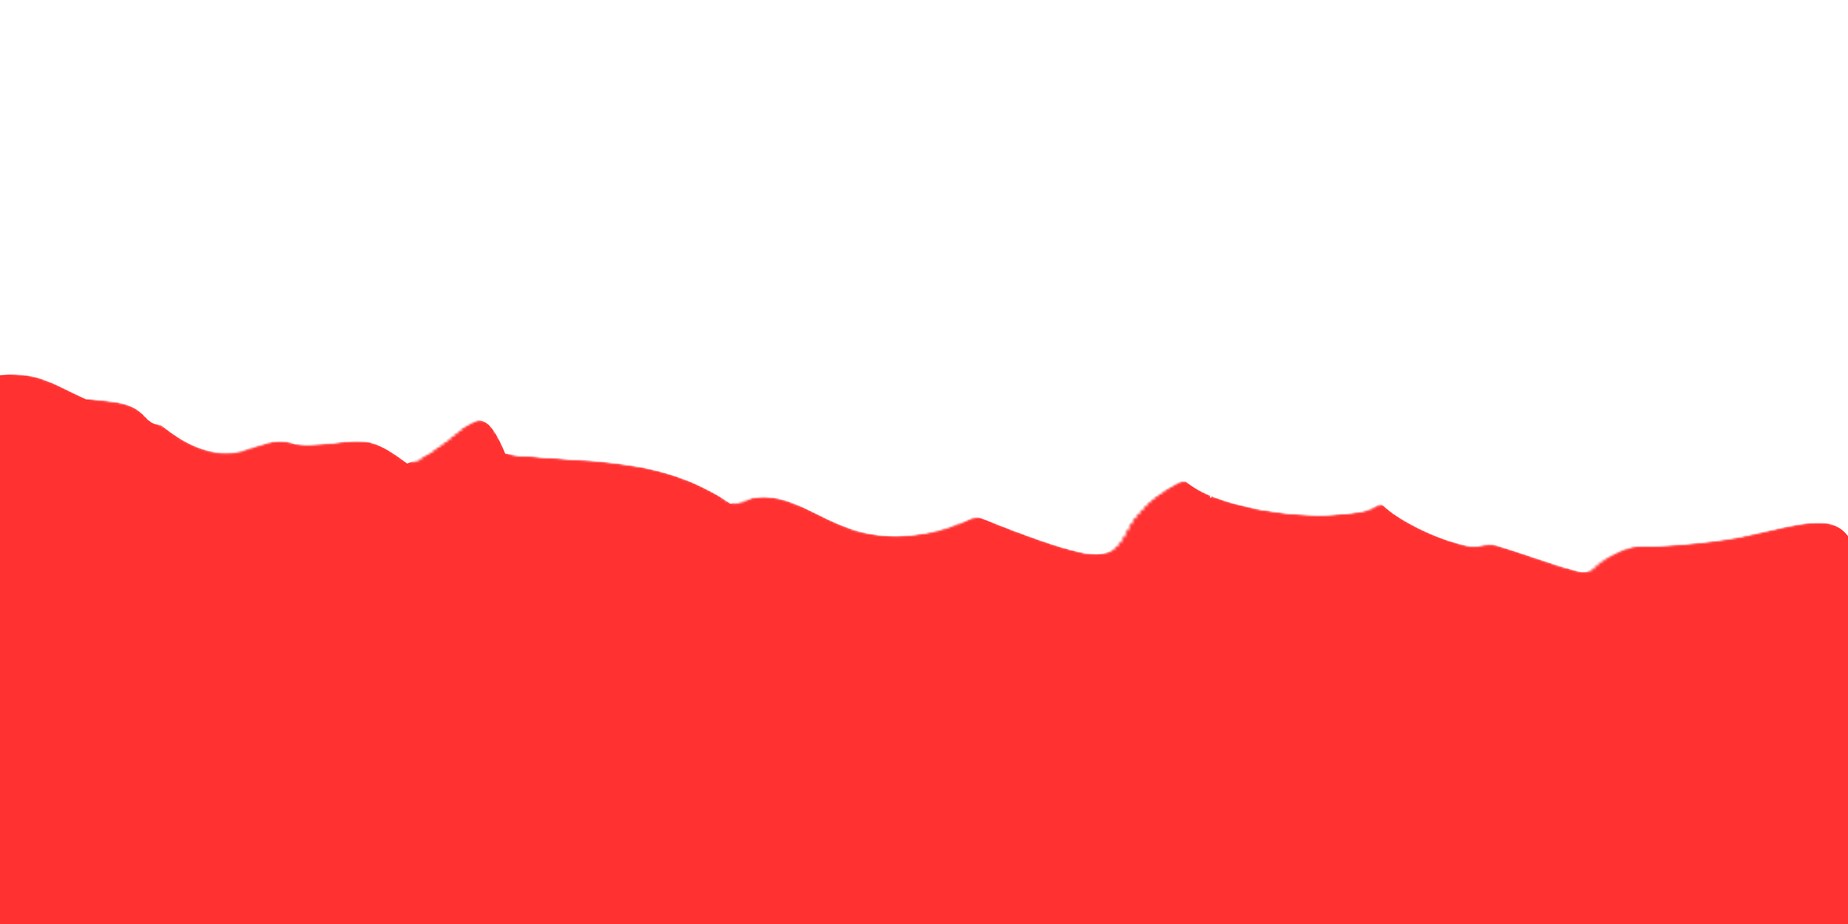
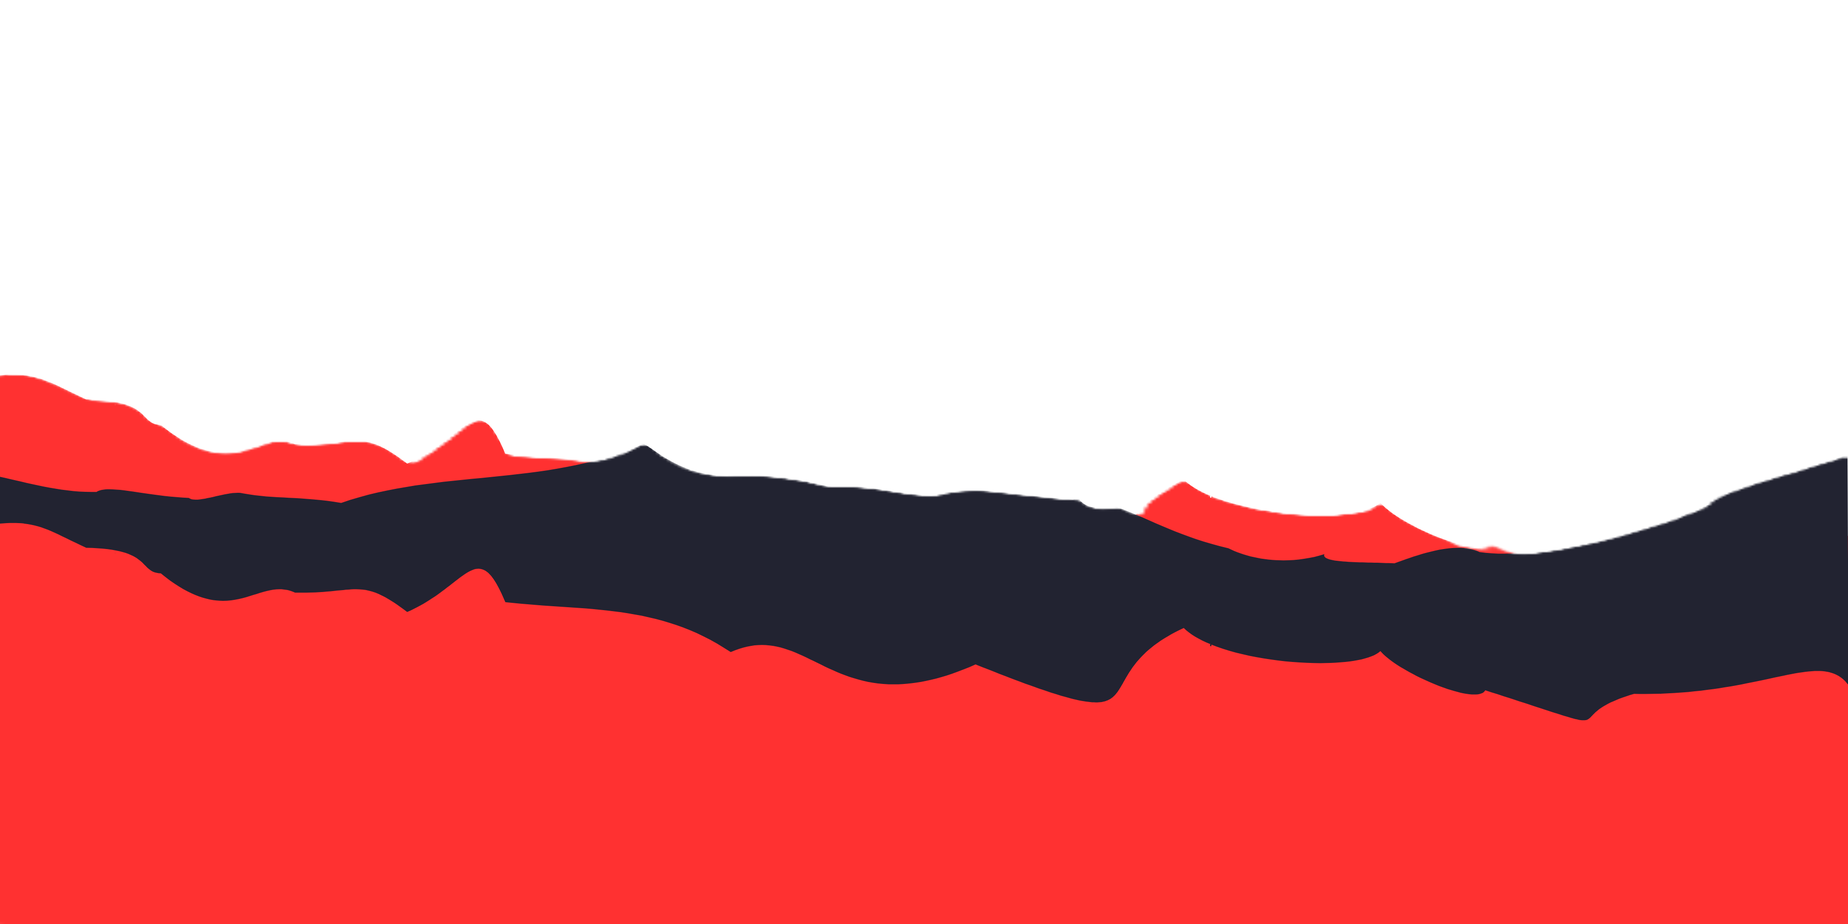
now i created more effects and animation for fabuless look

Changed region(s): [[0.0, 0.4683, 1.0, 0.7804]]

diff --git a/src/components/about/about.jsx b/src/components/about/about.jsx
@@ -1,0 +1,48 @@
+import React from 'react'
+import './about.css'
+import bg from '../../assets/bg.png'
+
+const About = () => {
+  return (
+    <div >
+        <img className='bg' src="" alt="" />
+        <div className='about'>
+             <div className="left">
+                <img src="" alt="" />
+             </div>
+             <div className="right"></div>
+        </div>
+        <div className='wrap'>
+        <div className='slider slider1'>
+        
+       
+            <div className='marquee-content'>
+                <h1>Web Developer&nbsp;&nbsp;&nbsp;&nbsp;&nbsp;&nbsp;■&nbsp;&nbsp;&nbsp;&nbsp;&nbsp;&nbsp;UI/UX Designer&nbsp;&nbsp;&nbsp;&nbsp;&nbsp;&nbsp;■&nbsp;&nbsp;&nbsp;&nbsp;&nbsp;&nbsp;App Design&nbsp;&nbsp;&nbsp;&nbsp;&nbsp;&nbsp;■&nbsp;&nbsp;&nbsp;&nbsp;&nbsp;&nbsp;Web Design&nbsp;&nbsp;&nbsp;&nbsp;&nbsp;&nbsp;■&nbsp;&nbsp;&nbsp;&nbsp;&nbsp;&nbsp;Web Developer&nbsp;&nbsp;&nbsp;&nbsp;&nbsp;&nbsp;■&nbsp;&nbsp;&nbsp;&nbsp;&nbsp;&nbsp;UI/UX Designer&nbsp;&nbsp;&nbsp;&nbsp;&nbsp;&nbsp;■&nbsp;&nbsp;&nbsp;&nbsp;&nbsp;&nbsp;App Design&nbsp;&nbsp;&nbsp;&nbsp;&nbsp;&nbsp;■&nbsp;&nbsp;&nbsp;&nbsp;&nbsp;&nbsp;Web Design&nbsp;&nbsp;&nbsp;&nbsp;&nbsp;&nbsp;■&nbsp;&nbsp;&nbsp;&nbsp;&nbsp;&nbsp;Web Developer&nbsp;&nbsp;&nbsp;&nbsp;&nbsp;&nbsp;■&nbsp;&nbsp;&nbsp;&nbsp;&nbsp;&nbsp;UI/UX Designer&nbsp;&nbsp;&nbsp;&nbsp;&nbsp;&nbsp;■&nbsp;&nbsp;&nbsp;&nbsp;&nbsp;&nbsp;App Design&nbsp;&nbsp;&nbsp;&nbsp;&nbsp;&nbsp;■&nbsp;&nbsp;&nbsp;&nbsp;&nbsp;&nbsp;Web Design&nbsp;&nbsp;&nbsp;&nbsp;&nbsp;&nbsp;■&nbsp;&nbsp;&nbsp;&nbsp;&nbsp;&nbsp;Web Developer&nbsp;&nbsp;&nbsp;&nbsp;&nbsp;&nbsp;■&nbsp;&nbsp;&nbsp;&nbsp;&nbsp;&nbsp;UI/UX Designer&nbsp;&nbsp;&nbsp;&nbsp;&nbsp;&nbsp;■&nbsp;&nbsp;&nbsp;&nbsp;&nbsp;&nbsp;App Design&nbsp;&nbsp;&nbsp;&nbsp;&nbsp;&nbsp;■&nbsp;&nbsp;&nbsp;&nbsp;&nbsp;&nbsp;Web Design&nbsp;&nbsp;&nbsp;&nbsp;&nbsp;&nbsp;■&nbsp;&nbsp;&nbsp;&nbsp;&nbsp;&nbsp;Web Developer&nbsp;&nbsp;&nbsp;&nbsp;&nbsp;&nbsp;■&nbsp;&nbsp;&nbsp;&nbsp;&nbsp;&nbsp;UI/UX Designer&nbsp;&nbsp;&nbsp;&nbsp;&nbsp;&nbsp;■&nbsp;&nbsp;&nbsp;&nbsp;&nbsp;&nbsp;App Design&nbsp;&nbsp;&nbsp;&nbsp;&nbsp;&nbsp;■&nbsp;&nbsp;&nbsp;&nbsp;&nbsp;&nbsp;Web DesignWeb Developer&nbsp;&nbsp;&nbsp;&nbsp;&nbsp;&nbsp;■&nbsp;&nbsp;&nbsp;&nbsp;&nbsp;&nbsp;UI/UX Designer&nbsp;&nbsp;&nbsp;&nbsp;&nbsp;&nbsp;■&nbsp;&nbsp;&nbsp;&nbsp;&nbsp;&nbsp;App Design&nbsp;&nbsp;&nbsp;&nbsp;&nbsp;&nbsp;■&nbsp;&nbsp;&nbsp;&nbsp;&nbsp;&nbsp;Web Design&nbsp;&nbsp;&nbsp;&nbsp;&nbsp;&nbsp;■&nbsp;&nbsp;&nbsp;&nbsp;&nbsp;&nbsp;Web Developer&nbsp;&nbsp;&nbsp;&nbsp;&nbsp;&nbsp;■&nbsp;&nbsp;&nbsp;&nbsp;&nbsp;&nbsp;UI/UX Designer&nbsp;&nbsp;&nbsp;&nbsp;&nbsp;&nbsp;■&nbsp;&nbsp;&nbsp;&nbsp;&nbsp;&nbsp;App Design&nbsp;&nbsp;&nbsp;&nbsp;&nbsp;&nbsp;■&nbsp;&nbsp;&nbsp;&nbsp;&nbsp;&nbsp;Web Design&nbsp;&nbsp;&nbsp;&nbsp;&nbsp;&nbsp;■&nbsp;&nbsp;&nbsp;&nbsp;&nbsp;&nbsp;Web Developer&nbsp;&nbsp;&nbsp;&nbsp;&nbsp;&nbsp;■&nbsp;&nbsp;&nbsp;&nbsp;&nbsp;&nbsp;UI/UX Designer&nbsp;&nbsp;&nbsp;&nbsp;&nbsp;&nbsp;■&nbsp;&nbsp;&nbsp;&nbsp;&nbsp;&nbsp;App Design&nbsp;&nbsp;&nbsp;&nbsp;&nbsp;&nbsp;■&nbsp;&nbsp;&nbsp;&nbsp;&nbsp;&nbsp;Web Design&nbsp;&nbsp;&nbsp;&nbsp;&nbsp;&nbsp;■&nbsp;&nbsp;&nbsp;&nbsp;&nbsp;&nbsp;Web Developer&nbsp;&nbsp;&nbsp;&nbsp;&nbsp;&nbsp;■&nbsp;&nbsp;&nbsp;&nbsp;&nbsp;&nbsp;UI/UX Designer&nbsp;&nbsp;&nbsp;&nbsp;&nbsp;&nbsp;■&nbsp;&nbsp;&nbsp;&nbsp;&nbsp;&nbsp;App Design&nbsp;&nbsp;&nbsp;&nbsp;&nbsp;&nbsp;■&nbsp;&nbsp;&nbsp;&nbsp;&nbsp;&nbsp;Web Design&nbsp;&nbsp;&nbsp;&nbsp;&nbsp;&nbsp;■&nbsp;&nbsp;&nbsp;&nbsp;&nbsp;&nbsp;Web Developer&nbsp;&nbsp;&nbsp;&nbsp;&nbsp;&nbsp;■&nbsp;&nbsp;&nbsp;&nbsp;&nbsp;&nbsp;UI/UX Designer&nbsp;&nbsp;&nbsp;&nbsp;&nbsp;&nbsp;■&nbsp;&nbsp;&nbsp;&nbsp;&nbsp;&nbsp;App Design&nbsp;&nbsp;&nbsp;&nbsp;&nbsp;&nbsp;■&nbsp;&nbsp;&nbsp;&nbsp;&nbsp;&nbsp;Web DesignWeb Developer&nbsp;&nbsp;&nbsp;&nbsp;&nbsp;&nbsp;■&nbsp;&nbsp;&nbsp;&nbsp;&nbsp;&nbsp;UI/UX Designer&nbsp;&nbsp;&nbsp;&nbsp;&nbsp;&nbsp;■&nbsp;&nbsp;&nbsp;&nbsp;&nbsp;&nbsp;App Design&nbsp;&nbsp;&nbsp;&nbsp;&nbsp;&nbsp;■&nbsp;&nbsp;&nbsp;&nbsp;&nbsp;&nbsp;Web Design&nbsp;&nbsp;&nbsp;&nbsp;&nbsp;&nbsp;■&nbsp;&nbsp;&nbsp;&nbsp;&nbsp;&nbsp;Web Developer&nbsp;&nbsp;&nbsp;&nbsp;&nbsp;&nbsp;■&nbsp;&nbsp;&nbsp;&nbsp;&nbsp;&nbsp;UI/UX Designer&nbsp;&nbsp;&nbsp;&nbsp;&nbsp;&nbsp;■&nbsp;&nbsp;&nbsp;&nbsp;&nbsp;&nbsp;App Design&nbsp;&nbsp;&nbsp;&nbsp;&nbsp;&nbsp;■&nbsp;&nbsp;&nbsp;&nbsp;&nbsp;&nbsp;Web Design&nbsp;&nbsp;&nbsp;&nbsp;&nbsp;&nbsp;■&nbsp;&nbsp;&nbsp;&nbsp;&nbsp;&nbsp;Web Developer&nbsp;&nbsp;&nbsp;&nbsp;&nbsp;&nbsp;■&nbsp;&nbsp;&nbsp;&nbsp;&nbsp;&nbsp;UI/UX Designer&nbsp;&nbsp;&nbsp;&nbsp;&nbsp;&nbsp;■&nbsp;&nbsp;&nbsp;&nbsp;&nbsp;&nbsp;App Design&nbsp;&nbsp;&nbsp;&nbsp;&nbsp;&nbsp;■&nbsp;&nbsp;&nbsp;&nbsp;&nbsp;&nbsp;Web Design&nbsp;&nbsp;&nbsp;&nbsp;&nbsp;&nbsp;■&nbsp;&nbsp;&nbsp;&nbsp;&nbsp;&nbsp;Web Developer&nbsp;&nbsp;&nbsp;&nbsp;&nbsp;&nbsp;■&nbsp;&nbsp;&nbsp;&nbsp;&nbsp;&nbsp;UI/UX Designer&nbsp;&nbsp;&nbsp;&nbsp;&nbsp;&nbsp;■&nbsp;&nbsp;&nbsp;&nbsp;&nbsp;&nbsp;App Design&nbsp;&nbsp;&nbsp;&nbsp;&nbsp;&nbsp;■&nbsp;&nbsp;&nbsp;&nbsp;&nbsp;&nbsp;Web Design&nbsp;&nbsp;&nbsp;&nbsp;&nbsp;&nbsp;■&nbsp;&nbsp;&nbsp;&nbsp;&nbsp;&nbsp;Web Developer&nbsp;&nbsp;&nbsp;&nbsp;&nbsp;&nbsp;■&nbsp;&nbsp;&nbsp;&nbsp;&nbsp;&nbsp;UI/UX Designer&nbsp;&nbsp;&nbsp;&nbsp;&nbsp;&nbsp;■&nbsp;&nbsp;&nbsp;&nbsp;&nbsp;&nbsp;App Design&nbsp;&nbsp;&nbsp;&nbsp;&nbsp;&nbsp;■&nbsp;&nbsp;&nbsp;&nbsp;&nbsp;&nbsp;Web DesignWeb Developer&nbsp;&nbsp;&nbsp;&nbsp;&nbsp;&nbsp;■&nbsp;&nbsp;&nbsp;&nbsp;&nbsp;&nbsp;UI/UX Designer&nbsp;&nbsp;&nbsp;&nbsp;&nbsp;&nbsp;■&nbsp;&nbsp;&nbsp;&nbsp;&nbsp;&nbsp;App Design&nbsp;&nbsp;&nbsp;&nbsp;&nbsp;&nbsp;■&nbsp;&nbsp;&nbsp;&nbsp;&nbsp;&nbsp;Web Design&nbsp;&nbsp;&nbsp;&nbsp;&nbsp;&nbsp;■&nbsp;&nbsp;&nbsp;&nbsp;&nbsp;&nbsp;Web Developer&nbsp;&nbsp;&nbsp;&nbsp;&nbsp;&nbsp;■&nbsp;&nbsp;&nbsp;&nbsp;&nbsp;&nbsp;UI/UX Designer&nbsp;&nbsp;&nbsp;&nbsp;&nbsp;&nbsp;■&nbsp;&nbsp;&nbsp;&nbsp;&nbsp;&nbsp;App Design&nbsp;&nbsp;&nbsp;&nbsp;&nbsp;&nbsp;■&nbsp;&nbsp;&nbsp;&nbsp;&nbsp;&nbsp;Web Design&nbsp;&nbsp;&nbsp;&nbsp;&nbsp;&nbsp;■&nbsp;&nbsp;&nbsp;&nbsp;&nbsp;&nbsp;Web Developer&nbsp;&nbsp;&nbsp;&nbsp;&nbsp;&nbsp;■&nbsp;&nbsp;&nbsp;&nbsp;&nbsp;&nbsp;UI/UX Designer&nbsp;&nbsp;&nbsp;&nbsp;&nbsp;&nbsp;■&nbsp;&nbsp;&nbsp;&nbsp;&nbsp;&nbsp;App Design&nbsp;&nbsp;&nbsp;&nbsp;&nbsp;&nbsp;■&nbsp;&nbsp;&nbsp;&nbsp;&nbsp;&nbsp;Web Design&nbsp;&nbsp;&nbsp;&nbsp;&nbsp;&nbsp;■&nbsp;&nbsp;&nbsp;&nbsp;&nbsp;&nbsp;Web Developer&nbsp;&nbsp;&nbsp;&nbsp;&nbsp;&nbsp;■&nbsp;&nbsp;&nbsp;&nbsp;&nbsp;&nbsp;UI/UX Designer&nbsp;&nbsp;&nbsp;&nbsp;&nbsp;&nbsp;■&nbsp;&nbsp;&nbsp;&nbsp;&nbsp;&nbsp;App Design&nbsp;&nbsp;&nbsp;&nbsp;&nbsp;&nbsp;■&nbsp;&nbsp;&nbsp;&nbsp;&nbsp;&nbsp;Web Design&nbsp;&nbsp;&nbsp;&nbsp;&nbsp;&nbsp;■&nbsp;&nbsp;&nbsp;&nbsp;&nbsp;&nbsp;Web Developer&nbsp;&nbsp;&nbsp;&nbsp;&nbsp;&nbsp;■&nbsp;&nbsp;&nbsp;&nbsp;&nbsp;&nbsp;UI/UX Designer&nbsp;&nbsp;&nbsp;&nbsp;&nbsp;&nbsp;■&nbsp;&nbsp;&nbsp;&nbsp;&nbsp;&nbsp;App Design&nbsp;&nbsp;&nbsp;&nbsp;&nbsp;&nbsp;■&nbsp;&nbsp;&nbsp;&nbsp;&nbsp;&nbsp;Web Design</h1>
+            </div>
+        
+       
+    </div>
+    <div className='slider slider1 slider2'>
+        
+       
+            <div className='marquee-content'>
+                <h1>Web Developer&nbsp;&nbsp;&nbsp;&nbsp;&nbsp;&nbsp;■&nbsp;&nbsp;&nbsp;&nbsp;&nbsp;&nbsp;UI/UX Designer&nbsp;&nbsp;&nbsp;&nbsp;&nbsp;&nbsp;■&nbsp;&nbsp;&nbsp;&nbsp;&nbsp;&nbsp;App Design&nbsp;&nbsp;&nbsp;&nbsp;&nbsp;&nbsp;■&nbsp;&nbsp;&nbsp;&nbsp;&nbsp;&nbsp;Web Design&nbsp;&nbsp;&nbsp;&nbsp;&nbsp;&nbsp;■&nbsp;&nbsp;&nbsp;&nbsp;&nbsp;&nbsp;Web Developer&nbsp;&nbsp;&nbsp;&nbsp;&nbsp;&nbsp;■&nbsp;&nbsp;&nbsp;&nbsp;&nbsp;&nbsp;UI/UX Designer&nbsp;&nbsp;&nbsp;&nbsp;&nbsp;&nbsp;■&nbsp;&nbsp;&nbsp;&nbsp;&nbsp;&nbsp;App Design&nbsp;&nbsp;&nbsp;&nbsp;&nbsp;&nbsp;■&nbsp;&nbsp;&nbsp;&nbsp;&nbsp;&nbsp;Web Design&nbsp;&nbsp;&nbsp;&nbsp;&nbsp;&nbsp;■&nbsp;&nbsp;&nbsp;&nbsp;&nbsp;&nbsp;Web Developer&nbsp;&nbsp;&nbsp;&nbsp;&nbsp;&nbsp;■&nbsp;&nbsp;&nbsp;&nbsp;&nbsp;&nbsp;UI/UX Designer&nbsp;&nbsp;&nbsp;&nbsp;&nbsp;&nbsp;■&nbsp;&nbsp;&nbsp;&nbsp;&nbsp;&nbsp;App Design&nbsp;&nbsp;&nbsp;&nbsp;&nbsp;&nbsp;■&nbsp;&nbsp;&nbsp;&nbsp;&nbsp;&nbsp;Web Design&nbsp;&nbsp;&nbsp;&nbsp;&nbsp;&nbsp;■&nbsp;&nbsp;&nbsp;&nbsp;&nbsp;&nbsp;Web Developer&nbsp;&nbsp;&nbsp;&nbsp;&nbsp;&nbsp;■&nbsp;&nbsp;&nbsp;&nbsp;&nbsp;&nbsp;UI/UX Designer&nbsp;&nbsp;&nbsp;&nbsp;&nbsp;&nbsp;■&nbsp;&nbsp;&nbsp;&nbsp;&nbsp;&nbsp;App Design&nbsp;&nbsp;&nbsp;&nbsp;&nbsp;&nbsp;■&nbsp;&nbsp;&nbsp;&nbsp;&nbsp;&nbsp;Web Design&nbsp;&nbsp;&nbsp;&nbsp;&nbsp;&nbsp;■&nbsp;&nbsp;&nbsp;&nbsp;&nbsp;&nbsp;Web Developer&nbsp;&nbsp;&nbsp;&nbsp;&nbsp;&nbsp;■&nbsp;&nbsp;&nbsp;&nbsp;&nbsp;&nbsp;UI/UX Designer&nbsp;&nbsp;&nbsp;&nbsp;&nbsp;&nbsp;■&nbsp;&nbsp;&nbsp;&nbsp;&nbsp;&nbsp;App Design&nbsp;&nbsp;&nbsp;&nbsp;&nbsp;&nbsp;■&nbsp;&nbsp;&nbsp;&nbsp;&nbsp;&nbsp;Web DesignWeb Developer&nbsp;&nbsp;&nbsp;&nbsp;&nbsp;&nbsp;■&nbsp;&nbsp;&nbsp;&nbsp;&nbsp;&nbsp;UI/UX Designer&nbsp;&nbsp;&nbsp;&nbsp;&nbsp;&nbsp;■&nbsp;&nbsp;&nbsp;&nbsp;&nbsp;&nbsp;App Design&nbsp;&nbsp;&nbsp;&nbsp;&nbsp;&nbsp;■&nbsp;&nbsp;&nbsp;&nbsp;&nbsp;&nbsp;Web Design&nbsp;&nbsp;&nbsp;&nbsp;&nbsp;&nbsp;■&nbsp;&nbsp;&nbsp;&nbsp;&nbsp;&nbsp;Web Developer&nbsp;&nbsp;&nbsp;&nbsp;&nbsp;&nbsp;■&nbsp;&nbsp;&nbsp;&nbsp;&nbsp;&nbsp;UI/UX Designer&nbsp;&nbsp;&nbsp;&nbsp;&nbsp;&nbsp;■&nbsp;&nbsp;&nbsp;&nbsp;&nbsp;&nbsp;App Design&nbsp;&nbsp;&nbsp;&nbsp;&nbsp;&nbsp;■&nbsp;&nbsp;&nbsp;&nbsp;&nbsp;&nbsp;Web Design&nbsp;&nbsp;&nbsp;&nbsp;&nbsp;&nbsp;■&nbsp;&nbsp;&nbsp;&nbsp;&nbsp;&nbsp;Web Developer&nbsp;&nbsp;&nbsp;&nbsp;&nbsp;&nbsp;■&nbsp;&nbsp;&nbsp;&nbsp;&nbsp;&nbsp;UI/UX Designer&nbsp;&nbsp;&nbsp;&nbsp;&nbsp;&nbsp;■&nbsp;&nbsp;&nbsp;&nbsp;&nbsp;&nbsp;App Design&nbsp;&nbsp;&nbsp;&nbsp;&nbsp;&nbsp;■&nbsp;&nbsp;&nbsp;&nbsp;&nbsp;&nbsp;Web Design&nbsp;&nbsp;&nbsp;&nbsp;&nbsp;&nbsp;■&nbsp;&nbsp;&nbsp;&nbsp;&nbsp;&nbsp;Web Developer&nbsp;&nbsp;&nbsp;&nbsp;&nbsp;&nbsp;■&nbsp;&nbsp;&nbsp;&nbsp;&nbsp;&nbsp;UI/UX Designer&nbsp;&nbsp;&nbsp;&nbsp;&nbsp;&nbsp;■&nbsp;&nbsp;&nbsp;&nbsp;&nbsp;&nbsp;App Design&nbsp;&nbsp;&nbsp;&nbsp;&nbsp;&nbsp;■&nbsp;&nbsp;&nbsp;&nbsp;&nbsp;&nbsp;Web Design&nbsp;&nbsp;&nbsp;&nbsp;&nbsp;&nbsp;■&nbsp;&nbsp;&nbsp;&nbsp;&nbsp;&nbsp;Web Developer&nbsp;&nbsp;&nbsp;&nbsp;&nbsp;&nbsp;■&nbsp;&nbsp;&nbsp;&nbsp;&nbsp;&nbsp;UI/UX Designer&nbsp;&nbsp;&nbsp;&nbsp;&nbsp;&nbsp;■&nbsp;&nbsp;&nbsp;&nbsp;&nbsp;&nbsp;App Design&nbsp;&nbsp;&nbsp;&nbsp;&nbsp;&nbsp;■&nbsp;&nbsp;&nbsp;&nbsp;&nbsp;&nbsp;Web DesignWeb Developer&nbsp;&nbsp;&nbsp;&nbsp;&nbsp;&nbsp;■&nbsp;&nbsp;&nbsp;&nbsp;&nbsp;&nbsp;UI/UX Designer&nbsp;&nbsp;&nbsp;&nbsp;&nbsp;&nbsp;■&nbsp;&nbsp;&nbsp;&nbsp;&nbsp;&nbsp;App Design&nbsp;&nbsp;&nbsp;&nbsp;&nbsp;&nbsp;■&nbsp;&nbsp;&nbsp;&nbsp;&nbsp;&nbsp;Web Design&nbsp;&nbsp;&nbsp;&nbsp;&nbsp;&nbsp;■&nbsp;&nbsp;&nbsp;&nbsp;&nbsp;&nbsp;Web Developer&nbsp;&nbsp;&nbsp;&nbsp;&nbsp;&nbsp;■&nbsp;&nbsp;&nbsp;&nbsp;&nbsp;&nbsp;UI/UX Designer&nbsp;&nbsp;&nbsp;&nbsp;&nbsp;&nbsp;■&nbsp;&nbsp;&nbsp;&nbsp;&nbsp;&nbsp;App Design&nbsp;&nbsp;&nbsp;&nbsp;&nbsp;&nbsp;■&nbsp;&nbsp;&nbsp;&nbsp;&nbsp;&nbsp;Web Design&nbsp;&nbsp;&nbsp;&nbsp;&nbsp;&nbsp;■&nbsp;&nbsp;&nbsp;&nbsp;&nbsp;&nbsp;Web Developer&nbsp;&nbsp;&nbsp;&nbsp;&nbsp;&nbsp;■&nbsp;&nbsp;&nbsp;&nbsp;&nbsp;&nbsp;UI/UX Designer&nbsp;&nbsp;&nbsp;&nbsp;&nbsp;&nbsp;■&nbsp;&nbsp;&nbsp;&nbsp;&nbsp;&nbsp;App Design&nbsp;&nbsp;&nbsp;&nbsp;&nbsp;&nbsp;■&nbsp;&nbsp;&nbsp;&nbsp;&nbsp;&nbsp;Web Design&nbsp;&nbsp;&nbsp;&nbsp;&nbsp;&nbsp;■&nbsp;&nbsp;&nbsp;&nbsp;&nbsp;&nbsp;Web Developer&nbsp;&nbsp;&nbsp;&nbsp;&nbsp;&nbsp;■&nbsp;&nbsp;&nbsp;&nbsp;&nbsp;&nbsp;UI/UX Designer&nbsp;&nbsp;&nbsp;&nbsp;&nbsp;&nbsp;■&nbsp;&nbsp;&nbsp;&nbsp;&nbsp;&nbsp;App Design&nbsp;&nbsp;&nbsp;&nbsp;&nbsp;&nbsp;■&nbsp;&nbsp;&nbsp;&nbsp;&nbsp;&nbsp;Web Design&nbsp;&nbsp;&nbsp;&nbsp;&nbsp;&nbsp;■&nbsp;&nbsp;&nbsp;&nbsp;&nbsp;&nbsp;Web Developer&nbsp;&nbsp;&nbsp;&nbsp;&nbsp;&nbsp;■&nbsp;&nbsp;&nbsp;&nbsp;&nbsp;&nbsp;UI/UX Designer&nbsp;&nbsp;&nbsp;&nbsp;&nbsp;&nbsp;■&nbsp;&nbsp;&nbsp;&nbsp;&nbsp;&nbsp;App Design&nbsp;&nbsp;&nbsp;&nbsp;&nbsp;&nbsp;■&nbsp;&nbsp;&nbsp;&nbsp;&nbsp;&nbsp;Web DesignWeb Developer&nbsp;&nbsp;&nbsp;&nbsp;&nbsp;&nbsp;■&nbsp;&nbsp;&nbsp;&nbsp;&nbsp;&nbsp;UI/UX Designer&nbsp;&nbsp;&nbsp;&nbsp;&nbsp;&nbsp;■&nbsp;&nbsp;&nbsp;&nbsp;&nbsp;&nbsp;App Design&nbsp;&nbsp;&nbsp;&nbsp;&nbsp;&nbsp;■&nbsp;&nbsp;&nbsp;&nbsp;&nbsp;&nbsp;Web Design&nbsp;&nbsp;&nbsp;&nbsp;&nbsp;&nbsp;■&nbsp;&nbsp;&nbsp;&nbsp;&nbsp;&nbsp;Web Developer&nbsp;&nbsp;&nbsp;&nbsp;&nbsp;&nbsp;■&nbsp;&nbsp;&nbsp;&nbsp;&nbsp;&nbsp;UI/UX Designer&nbsp;&nbsp;&nbsp;&nbsp;&nbsp;&nbsp;■&nbsp;&nbsp;&nbsp;&nbsp;&nbsp;&nbsp;App Design&nbsp;&nbsp;&nbsp;&nbsp;&nbsp;&nbsp;■&nbsp;&nbsp;&nbsp;&nbsp;&nbsp;&nbsp;Web Design&nbsp;&nbsp;&nbsp;&nbsp;&nbsp;&nbsp;■&nbsp;&nbsp;&nbsp;&nbsp;&nbsp;&nbsp;Web Developer&nbsp;&nbsp;&nbsp;&nbsp;&nbsp;&nbsp;■&nbsp;&nbsp;&nbsp;&nbsp;&nbsp;&nbsp;UI/UX Designer&nbsp;&nbsp;&nbsp;&nbsp;&nbsp;&nbsp;■&nbsp;&nbsp;&nbsp;&nbsp;&nbsp;&nbsp;App Design&nbsp;&nbsp;&nbsp;&nbsp;&nbsp;&nbsp;■&nbsp;&nbsp;&nbsp;&nbsp;&nbsp;&nbsp;Web Design&nbsp;&nbsp;&nbsp;&nbsp;&nbsp;&nbsp;■&nbsp;&nbsp;&nbsp;&nbsp;&nbsp;&nbsp;Web Developer&nbsp;&nbsp;&nbsp;&nbsp;&nbsp;&nbsp;■&nbsp;&nbsp;&nbsp;&nbsp;&nbsp;&nbsp;UI/UX Designer&nbsp;&nbsp;&nbsp;&nbsp;&nbsp;&nbsp;■&nbsp;&nbsp;&nbsp;&nbsp;&nbsp;&nbsp;App Design&nbsp;&nbsp;&nbsp;&nbsp;&nbsp;&nbsp;■&nbsp;&nbsp;&nbsp;&nbsp;&nbsp;&nbsp;Web Design&nbsp;&nbsp;&nbsp;&nbsp;&nbsp;&nbsp;■&nbsp;&nbsp;&nbsp;&nbsp;&nbsp;&nbsp;Web Developer&nbsp;&nbsp;&nbsp;&nbsp;&nbsp;&nbsp;■&nbsp;&nbsp;&nbsp;&nbsp;&nbsp;&nbsp;UI/UX Designer&nbsp;&nbsp;&nbsp;&nbsp;&nbsp;&nbsp;■&nbsp;&nbsp;&nbsp;&nbsp;&nbsp;&nbsp;App Design&nbsp;&nbsp;&nbsp;&nbsp;&nbsp;&nbsp;■&nbsp;&nbsp;&nbsp;&nbsp;&nbsp;&nbsp;Web Design</h1>
+            </div>
+        
+        
+    </div>
+    <div className='slider slider1 slider3'>
+        
+       
+            <div className='marquee-content r'>
+                <h1>Web Developer&nbsp;&nbsp;&nbsp;&nbsp;&nbsp;&nbsp;■&nbsp;&nbsp;&nbsp;&nbsp;&nbsp;&nbsp;UI/UX Designer&nbsp;&nbsp;&nbsp;&nbsp;&nbsp;&nbsp;■&nbsp;&nbsp;&nbsp;&nbsp;&nbsp;&nbsp;App Design&nbsp;&nbsp;&nbsp;&nbsp;&nbsp;&nbsp;■&nbsp;&nbsp;&nbsp;&nbsp;&nbsp;&nbsp;Web Design&nbsp;&nbsp;&nbsp;&nbsp;&nbsp;&nbsp;■&nbsp;&nbsp;&nbsp;&nbsp;&nbsp;&nbsp;Web Developer&nbsp;&nbsp;&nbsp;&nbsp;&nbsp;&nbsp;■&nbsp;&nbsp;&nbsp;&nbsp;&nbsp;&nbsp;UI/UX Designer&nbsp;&nbsp;&nbsp;&nbsp;&nbsp;&nbsp;■&nbsp;&nbsp;&nbsp;&nbsp;&nbsp;&nbsp;App Design&nbsp;&nbsp;&nbsp;&nbsp;&nbsp;&nbsp;■&nbsp;&nbsp;&nbsp;&nbsp;&nbsp;&nbsp;Web Design&nbsp;&nbsp;&nbsp;&nbsp;&nbsp;&nbsp;■&nbsp;&nbsp;&nbsp;&nbsp;&nbsp;&nbsp;Web Developer&nbsp;&nbsp;&nbsp;&nbsp;&nbsp;&nbsp;■&nbsp;&nbsp;&nbsp;&nbsp;&nbsp;&nbsp;UI/UX Designer&nbsp;&nbsp;&nbsp;&nbsp;&nbsp;&nbsp;■&nbsp;&nbsp;&nbsp;&nbsp;&nbsp;&nbsp;App Design&nbsp;&nbsp;&nbsp;&nbsp;&nbsp;&nbsp;■&nbsp;&nbsp;&nbsp;&nbsp;&nbsp;&nbsp;Web Design&nbsp;&nbsp;&nbsp;&nbsp;&nbsp;&nbsp;■&nbsp;&nbsp;&nbsp;&nbsp;&nbsp;&nbsp;Web Developer&nbsp;&nbsp;&nbsp;&nbsp;&nbsp;&nbsp;■&nbsp;&nbsp;&nbsp;&nbsp;&nbsp;&nbsp;UI/UX Designer&nbsp;&nbsp;&nbsp;&nbsp;&nbsp;&nbsp;■&nbsp;&nbsp;&nbsp;&nbsp;&nbsp;&nbsp;App Design&nbsp;&nbsp;&nbsp;&nbsp;&nbsp;&nbsp;■&nbsp;&nbsp;&nbsp;&nbsp;&nbsp;&nbsp;Web Design&nbsp;&nbsp;&nbsp;&nbsp;&nbsp;&nbsp;■&nbsp;&nbsp;&nbsp;&nbsp;&nbsp;&nbsp;Web Developer&nbsp;&nbsp;&nbsp;&nbsp;&nbsp;&nbsp;■&nbsp;&nbsp;&nbsp;&nbsp;&nbsp;&nbsp;UI/UX Designer&nbsp;&nbsp;&nbsp;&nbsp;&nbsp;&nbsp;■&nbsp;&nbsp;&nbsp;&nbsp;&nbsp;&nbsp;App Design&nbsp;&nbsp;&nbsp;&nbsp;&nbsp;&nbsp;■&nbsp;&nbsp;&nbsp;&nbsp;&nbsp;&nbsp;Web DesignWeb Developer&nbsp;&nbsp;&nbsp;&nbsp;&nbsp;&nbsp;■&nbsp;&nbsp;&nbsp;&nbsp;&nbsp;&nbsp;UI/UX Designer&nbsp;&nbsp;&nbsp;&nbsp;&nbsp;&nbsp;■&nbsp;&nbsp;&nbsp;&nbsp;&nbsp;&nbsp;App Design&nbsp;&nbsp;&nbsp;&nbsp;&nbsp;&nbsp;■&nbsp;&nbsp;&nbsp;&nbsp;&nbsp;&nbsp;Web Design&nbsp;&nbsp;&nbsp;&nbsp;&nbsp;&nbsp;■&nbsp;&nbsp;&nbsp;&nbsp;&nbsp;&nbsp;Web Developer&nbsp;&nbsp;&nbsp;&nbsp;&nbsp;&nbsp;■&nbsp;&nbsp;&nbsp;&nbsp;&nbsp;&nbsp;UI/UX Designer&nbsp;&nbsp;&nbsp;&nbsp;&nbsp;&nbsp;■&nbsp;&nbsp;&nbsp;&nbsp;&nbsp;&nbsp;App Design&nbsp;&nbsp;&nbsp;&nbsp;&nbsp;&nbsp;■&nbsp;&nbsp;&nbsp;&nbsp;&nbsp;&nbsp;Web Design&nbsp;&nbsp;&nbsp;&nbsp;&nbsp;&nbsp;■&nbsp;&nbsp;&nbsp;&nbsp;&nbsp;&nbsp;Web Developer&nbsp;&nbsp;&nbsp;&nbsp;&nbsp;&nbsp;■&nbsp;&nbsp;&nbsp;&nbsp;&nbsp;&nbsp;UI/UX Designer&nbsp;&nbsp;&nbsp;&nbsp;&nbsp;&nbsp;■&nbsp;&nbsp;&nbsp;&nbsp;&nbsp;&nbsp;App Design&nbsp;&nbsp;&nbsp;&nbsp;&nbsp;&nbsp;■&nbsp;&nbsp;&nbsp;&nbsp;&nbsp;&nbsp;Web Design&nbsp;&nbsp;&nbsp;&nbsp;&nbsp;&nbsp;■&nbsp;&nbsp;&nbsp;&nbsp;&nbsp;&nbsp;Web Developer&nbsp;&nbsp;&nbsp;&nbsp;&nbsp;&nbsp;■&nbsp;&nbsp;&nbsp;&nbsp;&nbsp;&nbsp;UI/UX Designer&nbsp;&nbsp;&nbsp;&nbsp;&nbsp;&nbsp;■&nbsp;&nbsp;&nbsp;&nbsp;&nbsp;&nbsp;App Design&nbsp;&nbsp;&nbsp;&nbsp;&nbsp;&nbsp;■&nbsp;&nbsp;&nbsp;&nbsp;&nbsp;&nbsp;Web Design&nbsp;&nbsp;&nbsp;&nbsp;&nbsp;&nbsp;■&nbsp;&nbsp;&nbsp;&nbsp;&nbsp;&nbsp;Web Developer&nbsp;&nbsp;&nbsp;&nbsp;&nbsp;&nbsp;■&nbsp;&nbsp;&nbsp;&nbsp;&nbsp;&nbsp;UI/UX Designer&nbsp;&nbsp;&nbsp;&nbsp;&nbsp;&nbsp;■&nbsp;&nbsp;&nbsp;&nbsp;&nbsp;&nbsp;App Design&nbsp;&nbsp;&nbsp;&nbsp;&nbsp;&nbsp;■&nbsp;&nbsp;&nbsp;&nbsp;&nbsp;&nbsp;Web DesignWeb Developer&nbsp;&nbsp;&nbsp;&nbsp;&nbsp;&nbsp;■&nbsp;&nbsp;&nbsp;&nbsp;&nbsp;&nbsp;UI/UX Designer&nbsp;&nbsp;&nbsp;&nbsp;&nbsp;&nbsp;■&nbsp;&nbsp;&nbsp;&nbsp;&nbsp;&nbsp;App Design&nbsp;&nbsp;&nbsp;&nbsp;&nbsp;&nbsp;■&nbsp;&nbsp;&nbsp;&nbsp;&nbsp;&nbsp;Web Design&nbsp;&nbsp;&nbsp;&nbsp;&nbsp;&nbsp;■&nbsp;&nbsp;&nbsp;&nbsp;&nbsp;&nbsp;Web Developer&nbsp;&nbsp;&nbsp;&nbsp;&nbsp;&nbsp;■&nbsp;&nbsp;&nbsp;&nbsp;&nbsp;&nbsp;UI/UX Designer&nbsp;&nbsp;&nbsp;&nbsp;&nbsp;&nbsp;■&nbsp;&nbsp;&nbsp;&nbsp;&nbsp;&nbsp;App Design&nbsp;&nbsp;&nbsp;&nbsp;&nbsp;&nbsp;■&nbsp;&nbsp;&nbsp;&nbsp;&nbsp;&nbsp;Web Design&nbsp;&nbsp;&nbsp;&nbsp;&nbsp;&nbsp;■&nbsp;&nbsp;&nbsp;&nbsp;&nbsp;&nbsp;Web Developer&nbsp;&nbsp;&nbsp;&nbsp;&nbsp;&nbsp;■&nbsp;&nbsp;&nbsp;&nbsp;&nbsp;&nbsp;UI/UX Designer&nbsp;&nbsp;&nbsp;&nbsp;&nbsp;&nbsp;■&nbsp;&nbsp;&nbsp;&nbsp;&nbsp;&nbsp;App Design&nbsp;&nbsp;&nbsp;&nbsp;&nbsp;&nbsp;■&nbsp;&nbsp;&nbsp;&nbsp;&nbsp;&nbsp;Web Design&nbsp;&nbsp;&nbsp;&nbsp;&nbsp;&nbsp;■&nbsp;&nbsp;&nbsp;&nbsp;&nbsp;&nbsp;Web Developer&nbsp;&nbsp;&nbsp;&nbsp;&nbsp;&nbsp;■&nbsp;&nbsp;&nbsp;&nbsp;&nbsp;&nbsp;UI/UX Designer&nbsp;&nbsp;&nbsp;&nbsp;&nbsp;&nbsp;■&nbsp;&nbsp;&nbsp;&nbsp;&nbsp;&nbsp;App Design&nbsp;&nbsp;&nbsp;&nbsp;&nbsp;&nbsp;■&nbsp;&nbsp;&nbsp;&nbsp;&nbsp;&nbsp;Web Design&nbsp;&nbsp;&nbsp;&nbsp;&nbsp;&nbsp;■&nbsp;&nbsp;&nbsp;&nbsp;&nbsp;&nbsp;Web Developer&nbsp;&nbsp;&nbsp;&nbsp;&nbsp;&nbsp;■&nbsp;&nbsp;&nbsp;&nbsp;&nbsp;&nbsp;UI/UX Designer&nbsp;&nbsp;&nbsp;&nbsp;&nbsp;&nbsp;■&nbsp;&nbsp;&nbsp;&nbsp;&nbsp;&nbsp;App Design&nbsp;&nbsp;&nbsp;&nbsp;&nbsp;&nbsp;■&nbsp;&nbsp;&nbsp;&nbsp;&nbsp;&nbsp;Web DesignWeb Developer&nbsp;&nbsp;&nbsp;&nbsp;&nbsp;&nbsp;■&nbsp;&nbsp;&nbsp;&nbsp;&nbsp;&nbsp;UI/UX Designer&nbsp;&nbsp;&nbsp;&nbsp;&nbsp;&nbsp;■&nbsp;&nbsp;&nbsp;&nbsp;&nbsp;&nbsp;App Design&nbsp;&nbsp;&nbsp;&nbsp;&nbsp;&nbsp;■&nbsp;&nbsp;&nbsp;&nbsp;&nbsp;&nbsp;Web Design&nbsp;&nbsp;&nbsp;&nbsp;&nbsp;&nbsp;■&nbsp;&nbsp;&nbsp;&nbsp;&nbsp;&nbsp;Web Developer&nbsp;&nbsp;&nbsp;&nbsp;&nbsp;&nbsp;■&nbsp;&nbsp;&nbsp;&nbsp;&nbsp;&nbsp;UI/UX Designer&nbsp;&nbsp;&nbsp;&nbsp;&nbsp;&nbsp;■&nbsp;&nbsp;&nbsp;&nbsp;&nbsp;&nbsp;App Design&nbsp;&nbsp;&nbsp;&nbsp;&nbsp;&nbsp;■&nbsp;&nbsp;&nbsp;&nbsp;&nbsp;&nbsp;Web Design&nbsp;&nbsp;&nbsp;&nbsp;&nbsp;&nbsp;■&nbsp;&nbsp;&nbsp;&nbsp;&nbsp;&nbsp;Web Developer&nbsp;&nbsp;&nbsp;&nbsp;&nbsp;&nbsp;■&nbsp;&nbsp;&nbsp;&nbsp;&nbsp;&nbsp;UI/UX Designer&nbsp;&nbsp;&nbsp;&nbsp;&nbsp;&nbsp;■&nbsp;&nbsp;&nbsp;&nbsp;&nbsp;&nbsp;App Design&nbsp;&nbsp;&nbsp;&nbsp;&nbsp;&nbsp;■&nbsp;&nbsp;&nbsp;&nbsp;&nbsp;&nbsp;Web Design&nbsp;&nbsp;&nbsp;&nbsp;&nbsp;&nbsp;■&nbsp;&nbsp;&nbsp;&nbsp;&nbsp;&nbsp;Web Developer&nbsp;&nbsp;&nbsp;&nbsp;&nbsp;&nbsp;■&nbsp;&nbsp;&nbsp;&nbsp;&nbsp;&nbsp;UI/UX Designer&nbsp;&nbsp;&nbsp;&nbsp;&nbsp;&nbsp;■&nbsp;&nbsp;&nbsp;&nbsp;&nbsp;&nbsp;App Design&nbsp;&nbsp;&nbsp;&nbsp;&nbsp;&nbsp;■&nbsp;&nbsp;&nbsp;&nbsp;&nbsp;&nbsp;Web Design&nbsp;&nbsp;&nbsp;&nbsp;&nbsp;&nbsp;■&nbsp;&nbsp;&nbsp;&nbsp;&nbsp;&nbsp;Web Developer&nbsp;&nbsp;&nbsp;&nbsp;&nbsp;&nbsp;■&nbsp;&nbsp;&nbsp;&nbsp;&nbsp;&nbsp;UI/UX Designer&nbsp;&nbsp;&nbsp;&nbsp;&nbsp;&nbsp;■&nbsp;&nbsp;&nbsp;&nbsp;&nbsp;&nbsp;App Design&nbsp;&nbsp;&nbsp;&nbsp;&nbsp;&nbsp;■&nbsp;&nbsp;&nbsp;&nbsp;&nbsp;&nbsp;Web Design</h1>
+            </div>
+        
+        
+    </div>
+    </div>
+    </div>
+  )
+}
+
+export default About

diff --git a/src/components/servicesSection/services.css b/src/components/servicesSection/services.css
@@ -31,6 +31,8 @@
 .cards{
     display: flex;
     justify-content: center;
+    padding-top: 65px;
+    z-index: 1;
 }
 .card{
     background-color: #222331;
@@ -44,6 +46,21 @@
     flex-direction: column;
     align-items: center;
     margin-top: 40px;
+    z-index: 1;
+}
+.card3{
+     background-color: #222331;
+    padding: 20px;
+    border-radius: 15px;
+    margin-right: -20px;
+    width: 260px;
+    height: 370px;
+    box-shadow: 8px 8px 15px rgba(0,0,0,0.2);
+    display: flex;
+    flex-direction: column;
+    align-items: center;
+    margin-top: 40px;
+    z-index: 1;
 }
 .icon{
     background-color: white;
@@ -77,8 +94,35 @@
     border-radius: 25px;
     cursor: pointer;
 }
-.card:hover{
-    transform: translateY(-10px);
+.card:hover,
+.card3:hover{
+    transform: translateY(-20px);
     transition: 0.3s ease-in-out all;
     cursor: pointer;
+}
+
+.wrap{
+    z-index: 1;
+    margin-top: -100px;
+    width: 120%;
+}
+.slider1{
+    rotate: 10deg;
+    margin-top: 285px;
+}
+.slider2{
+    transform: scale(1);
+    rotate: 10deg;
+    margin-top: 40px;
+}
+.slider3{
+    rotate: -5deg;
+    margin-top: -160px;
+}
+.r{
+    background-color: #222331;
+}
+
+.wrap{
+    margin-top: -600px;
 }

diff --git a/src/components/servicesSection/Services.jsx b/src/components/servicesSection/Services.jsx
@@ -7,7 +7,7 @@ const Services = () => {
     <div className='services'>
         <h2 className='h2'><span className='color'>■</span> Service</h2>
         <div className='row'>
-            <h1><span className='color'>Services </span>I Provide</h1>
+            <h1 className=''><span className='color'>Services </span>I Provide</h1>
         </div>
         <div className="cards">
             <div className="card">
@@ -26,7 +26,7 @@ const Services = () => {
                 <p className='para'>I design intutive and engaging interfaces that put users first. My goal is to create visually appealing, easy-to-navigate designs that deliver smooth and enjoyable digital experiences.</p>
                 <button className='btnc'>Hire Me</button>
             </div>
-            <div className="card">
+            <div className="card3">
                 <div className='icon'>
                     <p className='p'>{"</>"}</p>
                 </div>

diff --git a/src/App.jsx b/src/App.jsx
@@ -4,6 +4,7 @@ import Footer from './components/footer/footer.jsx'
 import Hero from './components/Hero/Hero.jsx'
 import Slider from './components/slider/slider.jsx'
 import Services from './components/servicesSection/Services.jsx'
+import About from './components/about/about.jsx'
 
 
 
@@ -14,6 +15,7 @@ const App = () => {
     <Hero />
     <Slider />
     <Services />
+    <About />
     <Footer />
     </>
   )

diff --git a/src/components/about/about.css b/src/components/about/about.css
@@ -1,0 +1,5 @@
+.bg{
+    width: 100%;
+    z-index: -3;
+    margin-top: -400px;
+}
